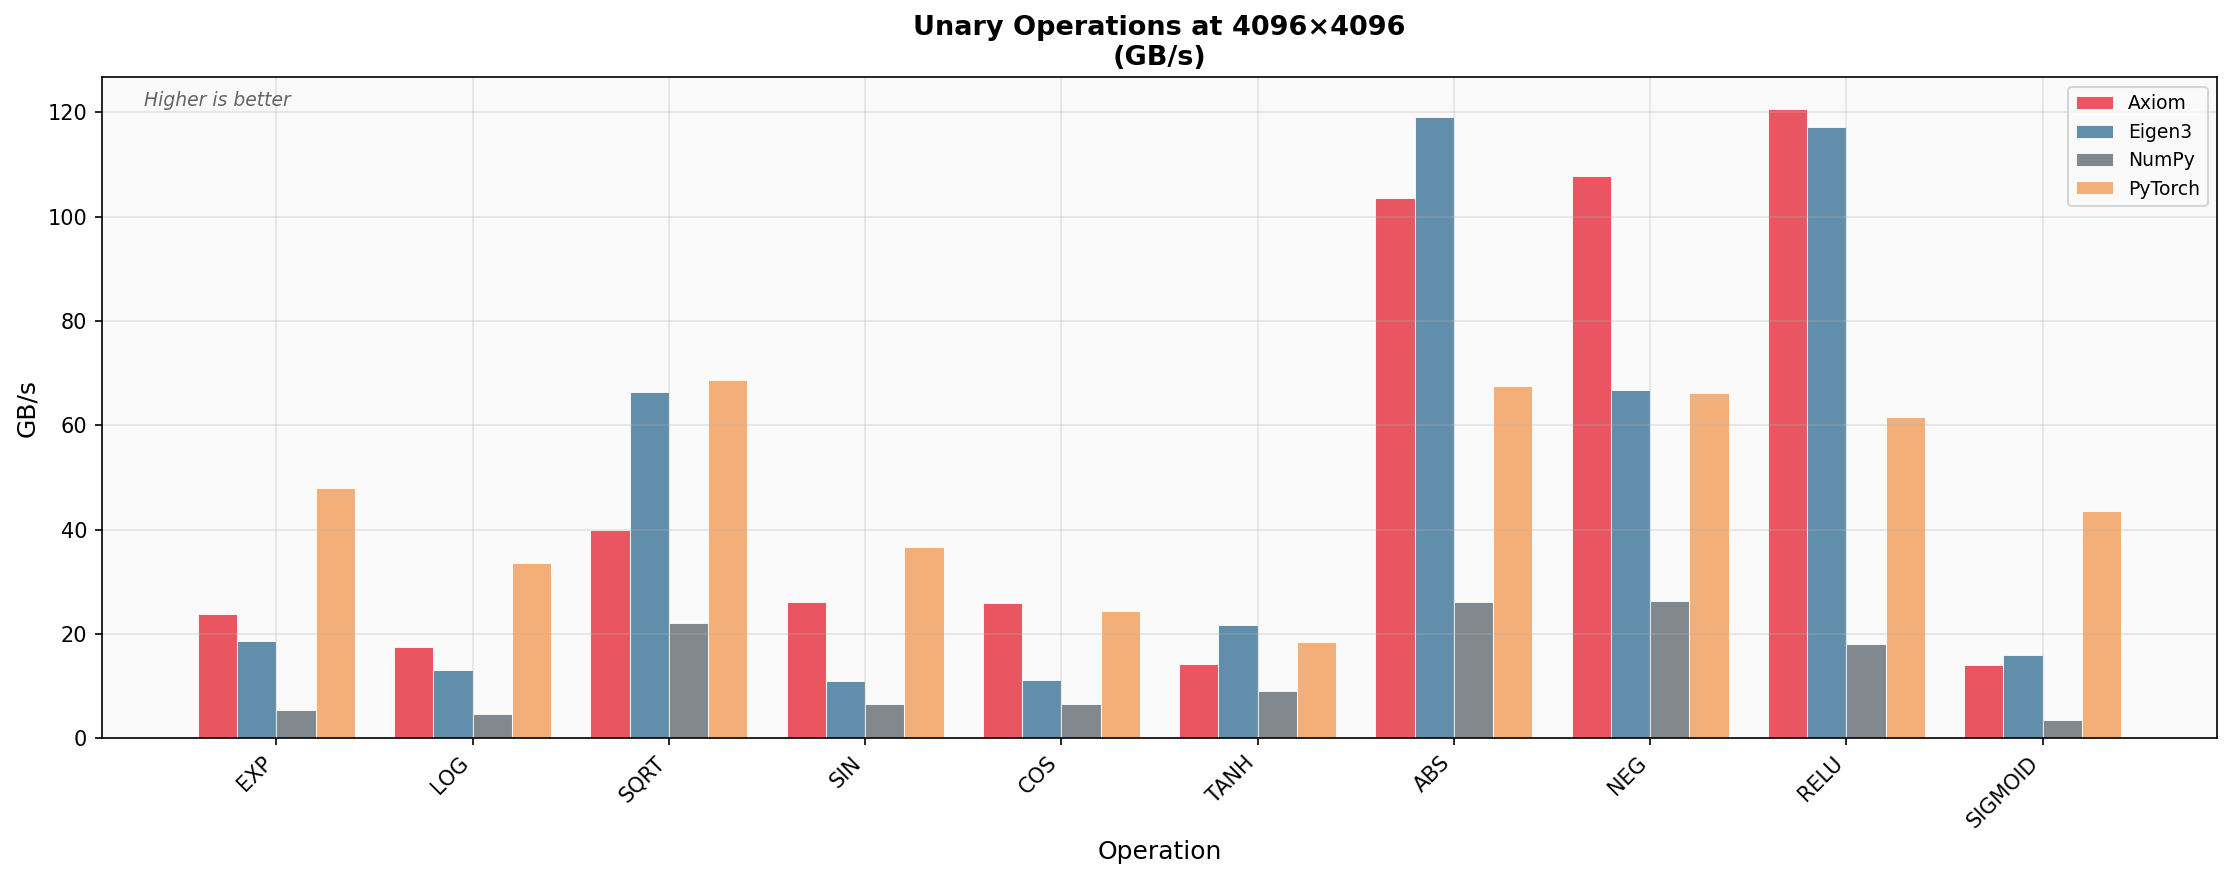
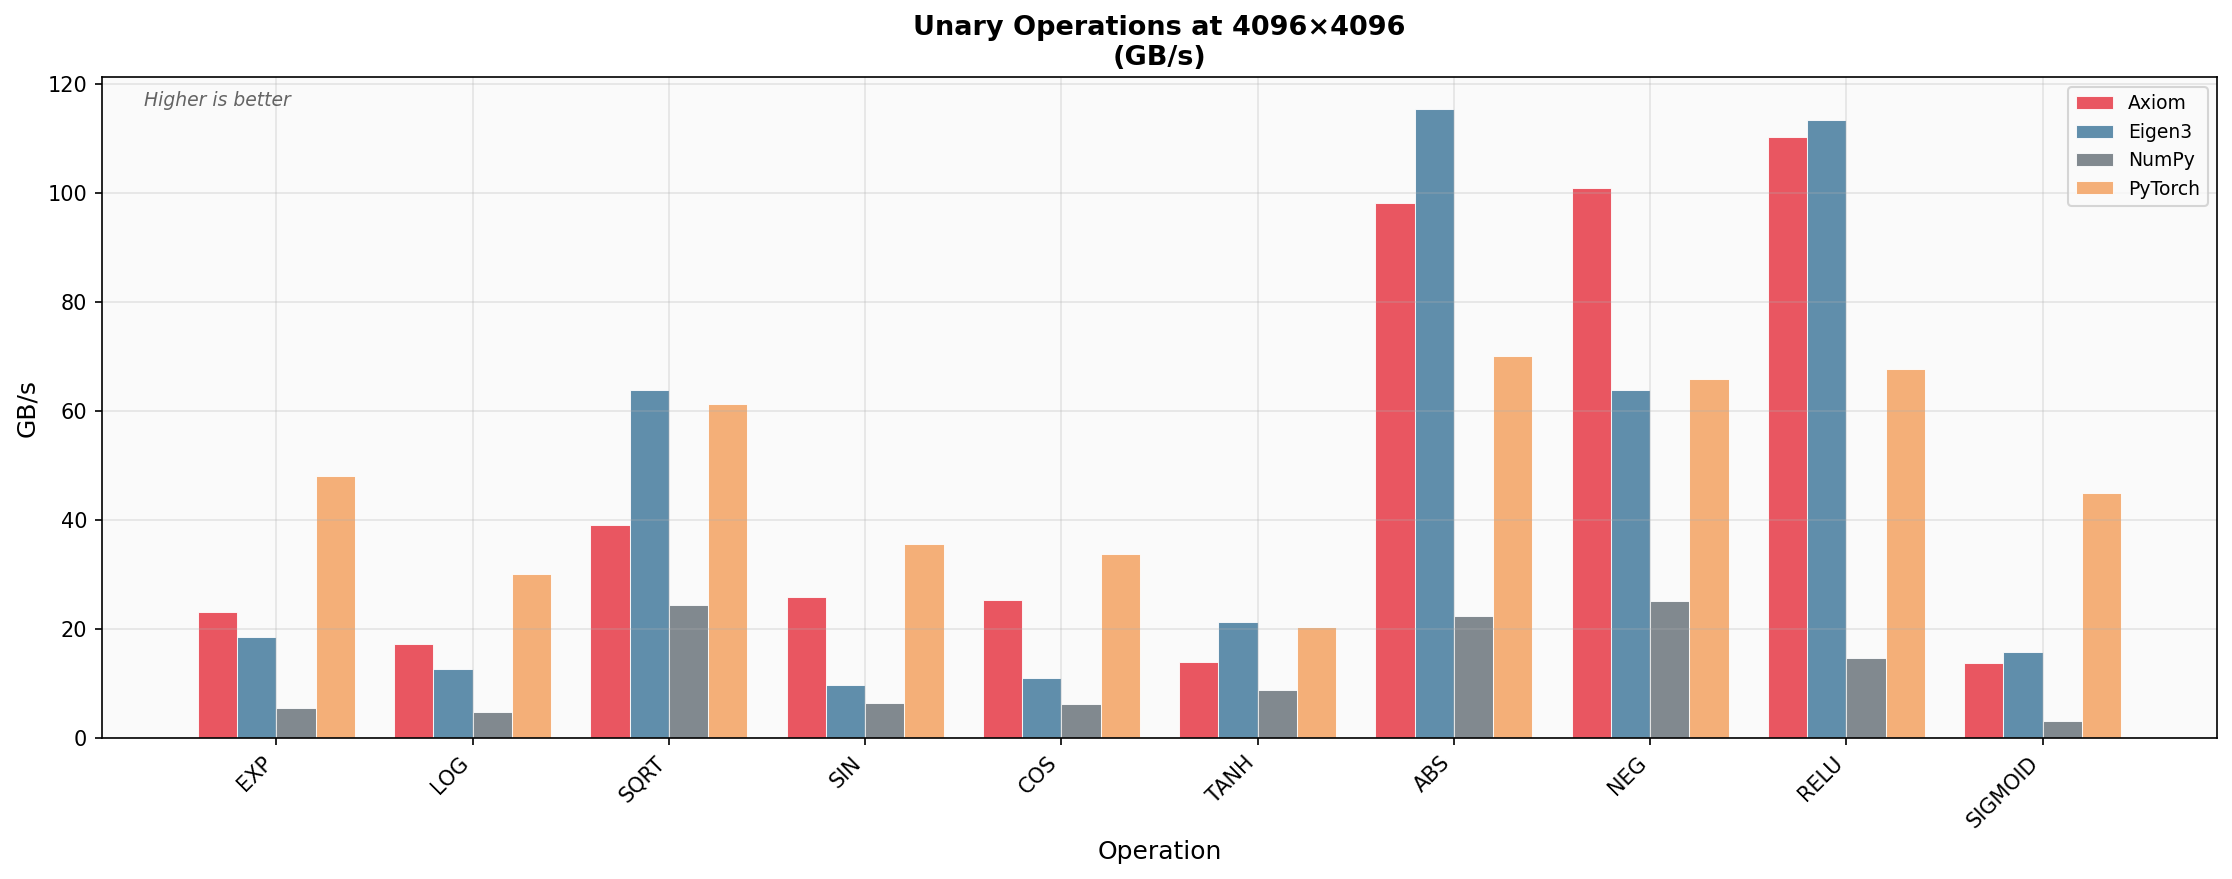
Update benchmarks

diff --git a/docs/BENCHMARKS.md b/docs/BENCHMARKS.md
@@ -1,6 +1,6 @@
 # Axiom Benchmark Results
 
-*Generated: 2026-02-06 11:49*
+*Generated: 2026-02-07 00:45*
 
 *Platform: Darwin arm64*
 
@@ -32,14 +32,14 @@ Performance comparison for square matrix multiplication (GFLOPS, higher is bette
 
 | Size | Axiom | Eigen3 | PyTorch | NumPy | Armadillo |
 |---:|---:|---:|---:|---:|---:|
-| 32×32 | 12.5 | 72.2 | 59.4 | 55.2 | 97.1 |
-| 64×64 | 102 | 422 | 319 | 329 | 32.3 |
-| 128×128 | 485 | 956 | 949 | 957 | 31.3 |
-| 256×256 | 1,165 | 1,348 | 1,553 | 1,412 | 162 |
-| 512×512 | 1,535 | 2,288 | 1,255 | 2,580 | 462 |
-| 1024×1024 | 2,614 | 2,484 | 2,227 | 2,333 | 519 |
-| 2048×2048 | 3,189 | 2,941 | 2,754 | 2,745 | 606 |
-| 4096×4096 | 3,090 | 2,974 | 2,902 | 2,940 | 683 |
+| 32×32 | 13.0 | 90.9 | 55.6 | 57.2 | 99.6 |
+| 64×64 | 103 | 434 | 335 | 341 | 32.4 |
+| 128×128 | 522 | 958 | 963 | 970 | 32.3 |
+| 256×256 | 1,248 | 1,310 | 1,486 | 1,609 | 167 |
+| 512×512 | 2,325 | 2,236 | 1,521 | 2,325 | 389 |
+| 1024×1024 | 3,142 | 2,481 | 2,160 | 2,234 | 413 |
+| 2048×2048 | 3,069 | 2,887 | 2,765 | 2,628 | 596 |
+| 4096×4096 | 3,071 | 2,928 | 2,922 | 2,935 | 630 |
 
 ### Performance Comparison
 
@@ -60,10 +60,10 @@ Binary element-wise operations (add, sub, mul, div) measured in GB/s throughput.
 
 | Operation | Axiom | Eigen3 | PyTorch | NumPy |
 |:---|---:|---:|---:|---:|
-| add | 89.4 | 116 | 91.1 | 36.4 |
-| sub | 109 | 118 | 92.4 | 36.4 |
-| mul | 117 | 117 | 92.1 | 36.0 |
-| div | 98.1 | 120 | 92.3 | 35.7 |
+| add | 85.1 | 116 | 90.2 | 32.7 |
+| sub | 108 | 116 | 87.2 | 33.8 |
+| mul | 113 | 116 | 89.6 | 34.0 |
+| div | 97.6 | 116 | 88.7 | 33.1 |
 
 ### Performance by Operation
 
@@ -84,16 +84,16 @@ Unary operations (exp, log, sqrt, sin, cos, tanh, abs, neg, relu, sigmoid) measu
 
 | Operation | Axiom | Eigen3 | PyTorch | NumPy |
 |:---|---:|---:|---:|---:|
-| exp | 23.8 | 18.7 | 47.9 | 5.36 |
-| log | 17.5 | 13.0 | 33.5 | 4.65 |
-| sqrt | 40.0 | 66.4 | 68.7 | 22.1 |
-| sin | 26.2 | 11.0 | 36.7 | 6.58 |
-| cos | 26.0 | 11.1 | 24.4 | 6.63 |
-| tanh | 14.3 | 21.6 | 18.5 | 9.06 |
-| abs | 104 | 119 | 67.5 | 26.1 |
-| neg | 108 | 66.8 | 66.2 | 26.2 |
-| relu | 121 | 117 | 61.5 | 18.1 |
-| sigmoid | 14.0 | 16.0 | 43.5 | 3.50 |
+| exp | 23.1 | 18.5 | 48.0 | 5.61 |
+| log | 17.3 | 12.8 | 30.1 | 4.73 |
+| sqrt | 39.1 | 63.9 | 61.4 | 24.4 |
+| sin | 25.8 | 9.69 | 35.7 | 6.37 |
+| cos | 25.4 | 11.0 | 33.8 | 6.28 |
+| tanh | 13.9 | 21.3 | 20.5 | 8.79 |
+| abs | 98.3 | 115 | 70.1 | 22.5 |
+| neg | 101 | 63.9 | 65.9 | 25.1 |
+| relu | 110 | 113 | 67.7 | 14.7 |
+| sigmoid | 13.7 | 15.8 | 44.9 | 3.22 |
 
 ### Performance by Operation
 
@@ -115,13 +115,13 @@ Measured in milliseconds (lower is better).
 
 | Operation | Axiom | Eigen3 | PyTorch | NumPy |
 |:---|---:|---:|---:|---:|
-| svd | 18.6 | 2,182 | 16.5 | 28.9 |
-| qr | 4.73 | 1.57 | 4.11 | 7.96 |
-| solve | 0.99 | 2.17 | 0.44 | 1.21 |
-| cholesky | 0.71 | 0.24 | 0.21 | 1.48 |
-| eig | 160 | 22.4 | 9.51 | 15.5 |
-| inv | 1.63 | 2.34 | 1.05 | 3.89 |
-| det | 1.03 | 1.47 | 0.61 | 1.68 |
+| svd | 19.1 | 2,360 | 16.8 | 29.0 |
+| qr | 4.59 | 1.45 | 4.07 | 8.15 |
+| solve | 1.01 | 2.19 | 0.50 | 1.24 |
+| cholesky | 0.75 | 0.23 | 0.26 | 1.59 |
+| eig | 154 | 22.1 | 9.88 | 15.7 |
+| inv | 1.52 | 2.37 | 1.07 | 4.04 |
+| det | 1.01 | 1.47 | 0.58 | 1.74 |
 
 ### Performance by Operation
 
@@ -144,11 +144,11 @@ Measured in milliseconds (lower is better).
 | Operation | Axiom | PyTorch | NumPy |
 |:---|---:|---:|---:|
 | fft | 0.10 | 0.01 | 0.01 |
-| ifft | 0.09 | 0.01 | 0.01 |
-| rfft | 0.09 | 0.01 | 0.01 |
-| fft2 | 14.8 | 28.0 | 62.2 |
-| ifft2 | 14.7 | 27.9 | 30.1 |
-| rfft2 | 14.2 | 7.83 | 23.7 |
+| ifft | 0.08 | 0.01 | 0.01 |
+| rfft | 0.08 | 0.01 | 0.01 |
+| fft2 | 15.2 | 29.3 | 65.7 |
+| ifft2 | 15.3 | 30.3 | 31.8 |
+| rfft2 | 11.4 | 8.27 | 25.5 |
 
 ### Performance by Operation
 
@@ -176,7 +176,7 @@ Lazy evaluation with operation fusion vs eager mode execution.
 OS: Darwin 25.2.0
 Architecture: arm64
 Python: 3.14.2
-Timestamp: 2026-02-06T11:47:28.078194
+Timestamp: 2026-02-07T00:43:11.398878
 ```
 
 ## Notes
